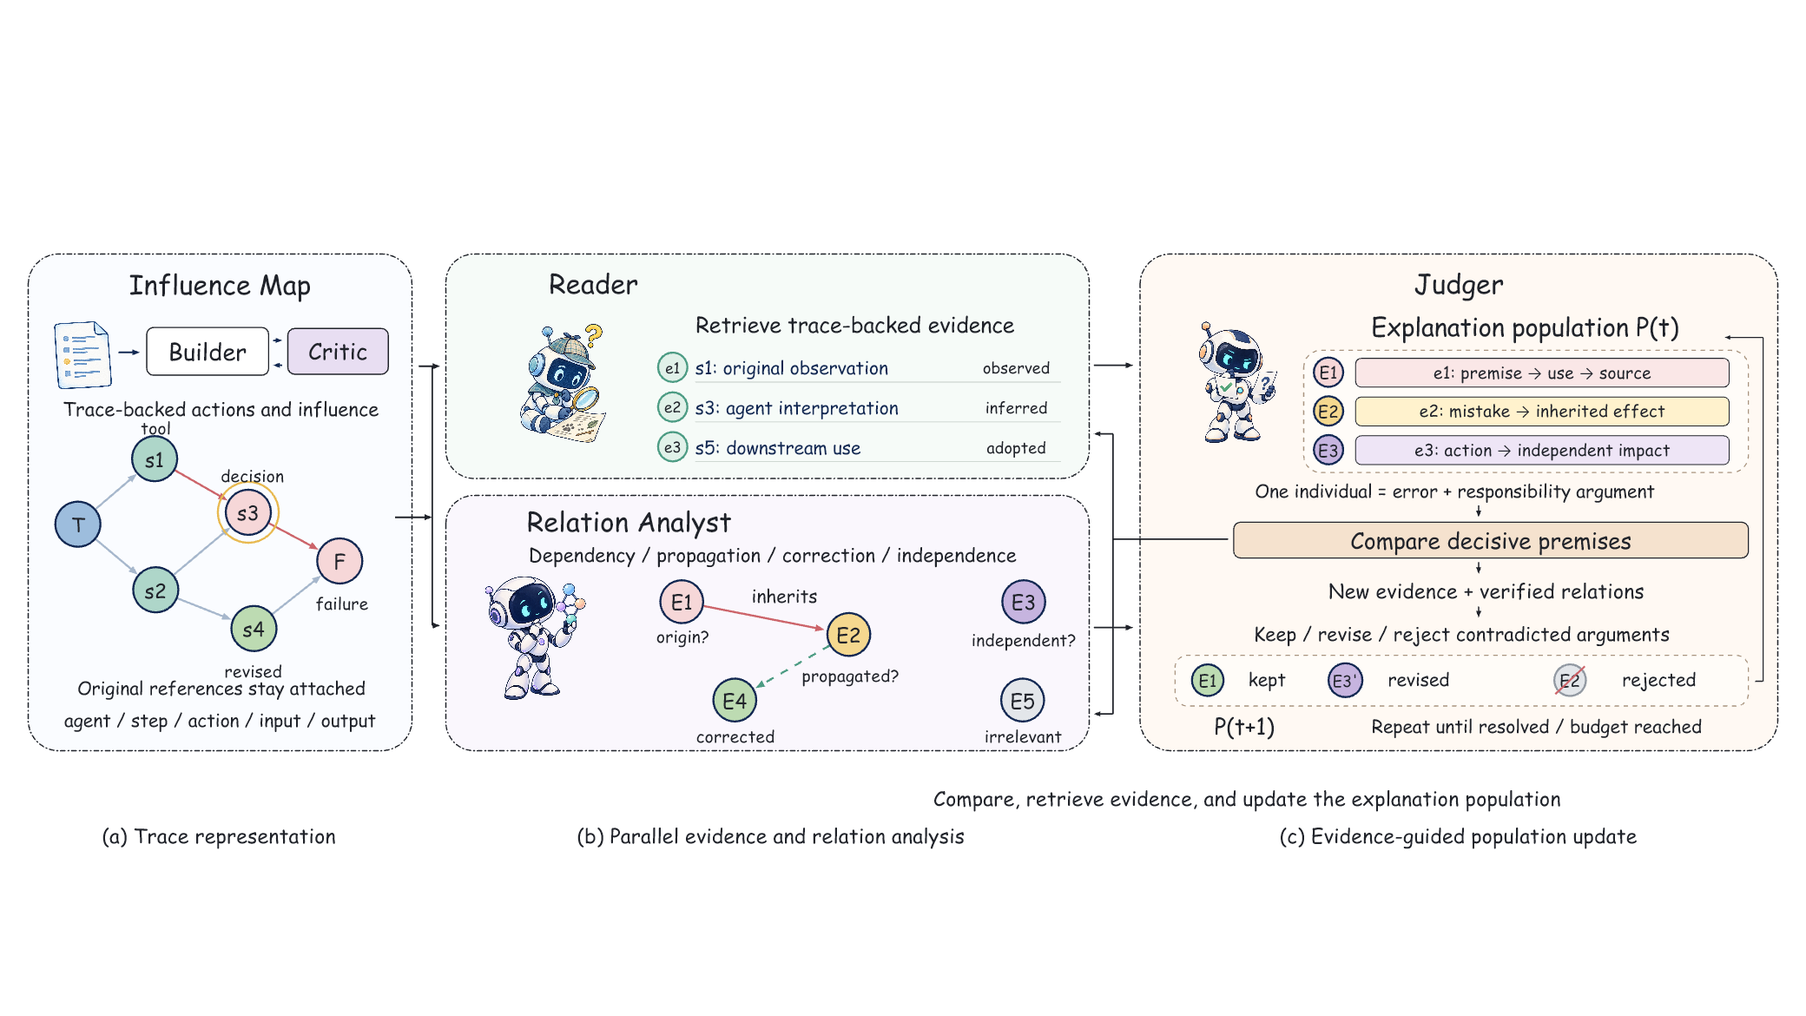
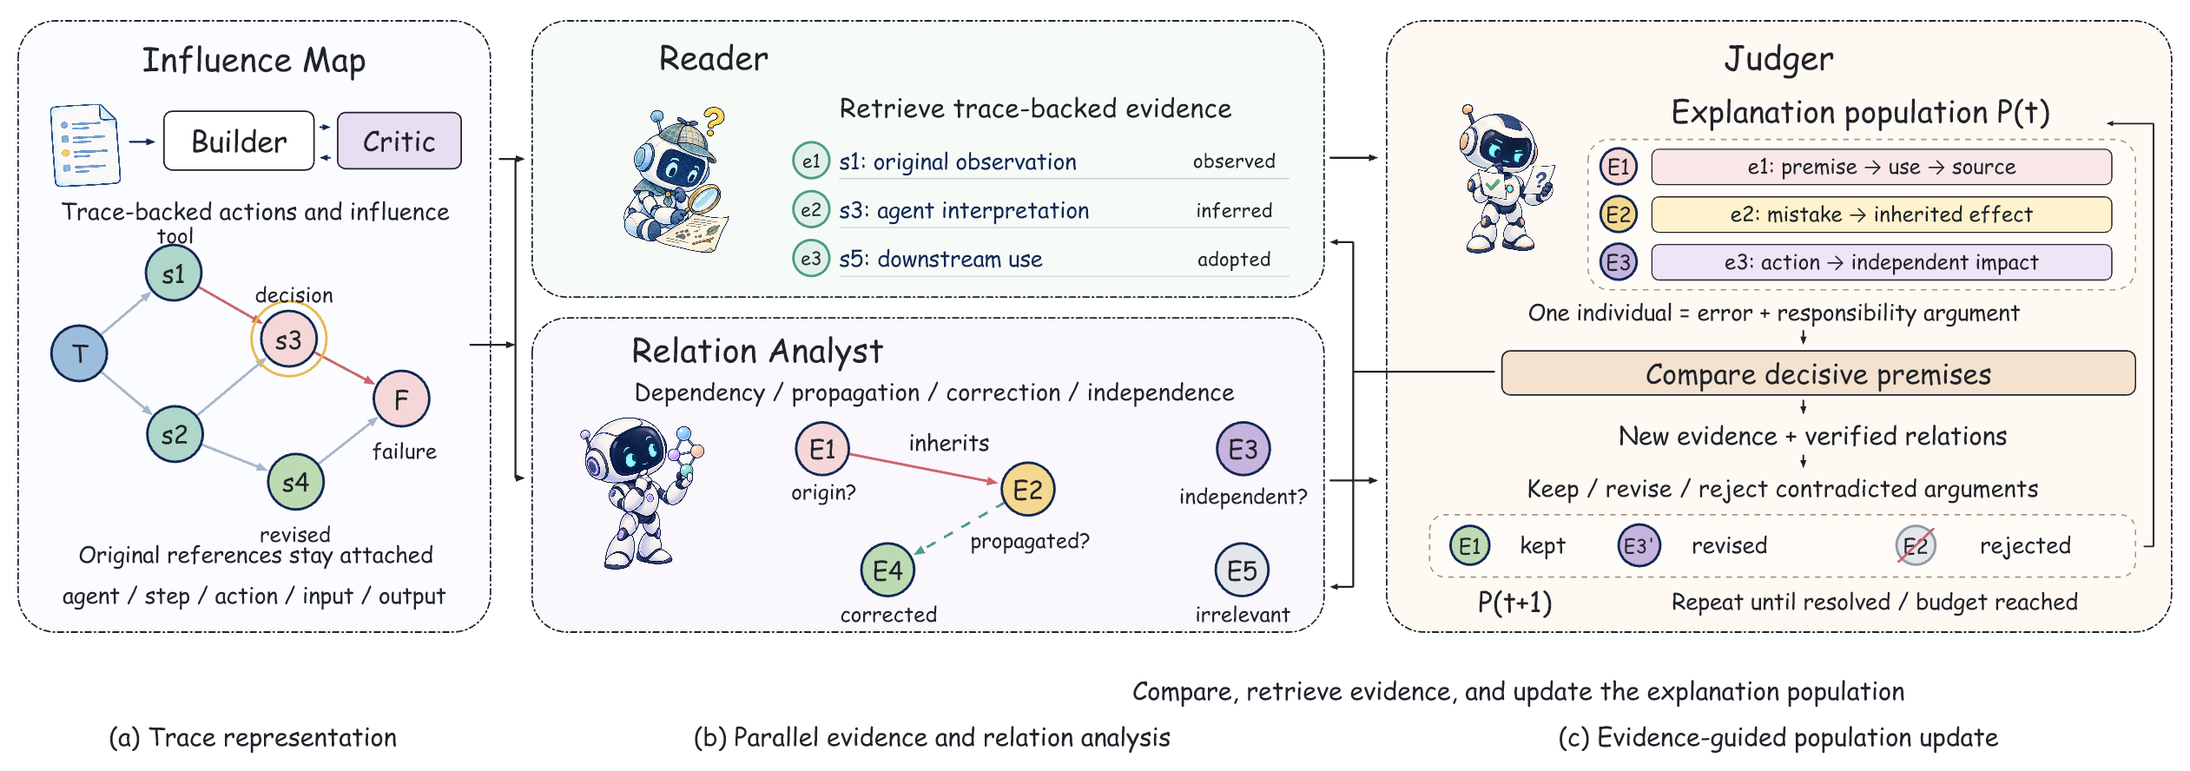
中文首页与图例说明，裁剪主图留白并展示 AI 动机图

diff --git a/README.md b/README.md
@@ -1,65 +1,50 @@
-# Neo's Autoresearch Tools
+# Neo 的自动科研工具箱
 
-Original integration tooling for Argus and AutoSOTA. Python module and command:
-`researchforge` (retained for compatibility). Release status: **experimental v0.1.1**.
+面向日常自动化科研的 Argus / AutoSOTA 接入工具。Argus 负责研究规划、实施和复核；
+AutoSOTA 作为可选的代码优化后端；本工具负责版本冻结、运行交接、评测记录、
+模型调用记账、故障停止与源码发布。
 
-中文说明见 [README.zh-CN.md](README.zh-CN.md).
+仓库也收录可复用科研技能：[论文作图 skill](skills/neo-paper-figures/SKILL.md)、
+[AI 作图展示与可编辑 PPT](docs/gallery.md)、[提示词与迭代经验](skills/neo-paper-figures/references/prompts.md)。
 
-This repository also keeps reusable research skills. See the
-[paper-figure gallery](docs/gallery.md) and [Neo's paper-figure skill](skills/neo-paper-figures/SKILL.md).
+## AI 辅助论文作图
 
-![AI-assisted method figure example](docs/assets/method-population.png)
+下面两张图由 AI 根据我的手绘草图、提示词和多轮审美反馈制作。
+图示用于展示方法构思与作图能力，不代表算法效果已经得到验证。
+图内保留论文使用的英文标注；网页预览裁掉多余留白，可编辑 PPT 保留完整页面。
 
-Reusable experiment operations connecting **native Argus research** with
-**actual AutoSOTA code optimization**. Keep one research direction and one
-experimental source of truth, while delegating bounded optimization batches.
+**论文主图：并行取证、关系分析与候选解释种群。**
 
-This is an integration project, not a fork or reimplementation of either system.
-It is currently **v0.1, local integration and offline acceptance**. The tests do
-not establish unattended paid-research readiness or improved research scores.
-An actual complete Argus → AutoSOTA → fixed evaluator → Argus paid cycle remains
-an explicit acceptance gate. Do not advertise that gate as passed until its
-receipts exist.
+![AI 辅助绘制的论文主图](docs/assets/method-population.png)
 
-```mermaid
-flowchart LR
-  Human[Researcher: direction and authority] --> Argus[Argus native continuous research]
-  Argus --> Task[Frozen bounded optimization task]
-  Task --> Auto[Actual AutoSOTA CLI]
-  Auto --> Eval[Fixed evaluator and experiment receipts]
-  Eval --> Auto
-  Auto --> Result[Patch, all scores, failures and costs]
-  Result --> Argus
-  Gate[Shared budget and protocol guard] --- Task
-  Gate --- Eval
-```
+**动机图：区分错误与责任，比较不同候选解释。**
 
-## What is implemented
+<p align="center"><img src="docs/assets/motivation-portrait.png" width="440" alt="AI 辅助绘制的论文动机图"></p>
 
-- Versioned task contracts with protected scorer hashes, fixed protocol,
-  explicit metric, baseline, data split, required artifacts and finite budgets.
-- Actual Argus and AutoSOTA CLI adapters using explicit argv, without shell
-  interpolation. No additional LLM research planner.
-- Transactional SQLite jobs, idempotent submission, a single workspace writer,
-  process receipts, hard wall time, and stopping the backend when a window pauses.
-- Crash recovery that **does not automatically replay paid work**. Lost workers
-  and ambiguous provider calls require reconciliation with saved receipts.
-- Shared API accounting with per-category allocations for planning, optimization,
-  review and evaluation. Exhausting a category commits a persistent pause.
-- Loopback OpenAI/Anthropic text-and-tool protocol bridge, environment-only real
-  credentials, authoritative usage accounting, and conservative unknown billing.
-  Extended thinking, images and complete Claude SDK parity are not implemented.
-- AutoSOTA score/patch/verdict import, clearly marked as backend-reported until
-  checked against the shared evaluator. No automatic score-based promotion.
-- Fixed-denominator paired comparisons and multi-metric acceptance guardrails.
-- Source-only release export with hashes and a credential/private-path check.
-- Native Argus handoff skill, portable offline tests and CI configuration.
+[下载论文主图 PPT](docs/assets/method-population.pptx) ·
+[下载动机图 PPT](docs/assets/motivation-portrait.pptx) ·
+[查看作图技能、提示词和迭代经验](docs/gallery.md)
 
-## Quick start
+## 当前版本
 
-Python 3.11+; no Python dependencies are required for the integration layer.
-Argus and AutoSOTA are external installations with their own dependencies,
-provider configuration, version requirements and terms. Their code is not bundled.
+**v0.1.1 实验性版本**，可以公开源码供开发和验证，尚不是开箱即用的无人值守科研平台。
+Python 模块和命令保留为 `researchforge`。
+
+- 已实现原版命令行工具适配、任务队列、单工作区写锁、保护评分器哈希和版本冻结。
+- 已实现本地模型网关、分类预算、真实用量记账，以及不明调用的保守记录。
+- 已实现子进程超时终止、崩溃恢复、AutoSOTA 产物导入和固定分母配对比较。
+- 已配置离线测试、Windows / Linux 自动测试流程 和仅源码导出。
+- 原版 AutoSOTA 0.2.0 已在断网 Linux 容器中完成 离线演练，生成真实 主提示词，
+  该验收没有调用付费模型。此包对应运行时需要 Python 3.11；不能假设新版参数兼容。
+
+**尚未完成的验收**：通过本工具跑通真实付费的
+Argus → AutoSOTA → 固定评分器 → Argus 完整闭环；系统重启后的自动服务恢复；
+完整 Claude 客户端与扩展思考 协议兼容。已有科研工作区的 Argus 实验结果
+不能替代这个独立工具包的端到端验收。
+
+## 快速检查
+
+Python 3.11 或以上；接入层本身无必需第三方 Python 依赖。
 
 ```sh
 python -m unittest discover -s tests -v
@@ -68,91 +53,56 @@ python -m researchforge doctor examples/launchers.json
 python -m researchforge --state .runtime/window-001 status
 ```
 
-`examples/budget.json` is an example, **not authorization to spend**. Before paid
-execution, configure an approved budget, verified sandbox launchers, provider
-routes and the actual frozen evaluator. All model clients must use that gateway;
-this software cannot budget arbitrary direct calls made outside it.
+Argus、AutoSOTA、模型服务和执行隔离环境需要自行安装配置。示例中的路径和预算
+需要按自己的机器调整；示例配置不代表付费授权。不要将个人模型密钥填入源码提交。
 
-## Argus ↔ AutoSOTA workflow
+## 研究循环
 
-1. Argus reads the previous full evaluation and identifies one general mechanism
-   hypothesis. It owns research direction, not every code-edit microdecision.
-2. Make an owned method-repository copy and batch workspace. Adapt
-   `docs/task.example.json` with real paths, scorer hashes and protocol identity.
-3. Stage the contract and inspect the CLI plan:
+研究方向 → 一项可检验假设 → 冻结代码与协议 → 运行优化批次 → 完整评测 →
+比较新增正确与退步案例 → 记录机制发现、成本和负结果 → 决定下一轮。
 
-```sh
-python -m researchforge plan task.json examples/launchers.json --root project
-python -m researchforge --state .runtime/window-001 submit task.json --root project
-python -m researchforge --state .runtime/window-001 worker examples/launchers.json --root project
-```
+工具保留两类记录：实验设置与可复现证据；研究发现与待验证结论。
+不以更长解释、更规范输出或单例成功替代正式任务指标。
 
-4. AutoSOTA runs a bounded batch. The worker imports actual `scores.jsonl`,
-   patches and any final verdict into `backend_receipt.json`. Native Argus checks
-   official full results and mechanism evidence before planning another batch.
-5. Maintain separate experiment-settings and research-findings logs. Preserve
-   negative results, paired regressions, source hashes, costs and limitations.
+预算策略由使用者授权；网关外的直接调用不受本工具控制。工作目录不是安全沙箱，
+必须配置经过核验的容器或其他隔离。遇到结果不明的付费调用，不应盲目重试。
+无人值守运行仍要求机器开机、联网且不休眠。
 
-The Argus skill in `skills/researchforge-autosota/SKILL.md` describes this contract.
-Install it into the operator's chosen curated skill library; it is not globally
-installed or silently injected into an active research project.
-
-## Operate while away
-
-Native Argus is the durable research loop. Run the bounded backend in foreground
-under the worker so budget pause can terminate its exact process. If the machine
-reboots, use native persisted state and `recover` before any resume. Do not create
-a replacement window to get around exhausted budgets.
+## 发布与许可
 
 ```sh
-python -m researchforge --state .runtime/window-001 pause --reason "operator pause"
-# Stop the gateway before reconciling in-flight calls:
-python -m researchforge --state .runtime/window-001 recover --gateway-stopped
+python -m researchforge export dist/neos-autoresearch-tools-v0.1.1-source.zip
 ```
 
-This version intentionally does not guess missing billable results, automatically
-clear unknowns, renew spending, answer scope-changing questions, or claim to run
-while the host sleeps. A native Needs-you question must remain visible. Future
-service/startup integration must preserve these boundaries.
+导出仅包含允许列表内的源码、文档、合成测试、示例和技能，不包含真实 API 配置、
+数据集、实验轨迹、上游二进制或私人运行目录。MIT 许可仅覆盖本项目原创代码；
+上游项目和服务各自遵守其许可与使用条款。更多接入配置见 [任务示例](docs/task.example.json) 和 [启动器示例](examples/launchers.json)。
 
-## Models and security
 
-Configure upstream base URL and **environment variable names** using
-`examples/gateway.json`. The real provider key belongs only to the gateway
-process; backend credentials should be local capability tokens. The gateway
-binds only to loopback. Never expose it to an untrusted network.
+## 两个项目如何分工
 
-```sh
-# Set the named variables securely in your own environment first.
-python -m researchforge --state .runtime/window-001 gateway examples/gateway.json
-```
+- **Argus**：维持研究方向，提出假设，安排实验，审查结果并决定下一轮。
+- **AutoSOTA**：作为代码优化后端，在冻结的任务、预算和评测规则下尝试修改。
+- **本工具箱**：负责交接、运行记录、预算记账、故障停止和结果整理。
 
-The worker and working directory are not an OS sandbox. Use a verified container
-or equivalent isolation in each CLI launcher. Caller-supplied objectives are not
-permissions to access secrets, publish, install software, change evaluators, or
-expand budgets. AutoSOTA's direct API calls must be routed to the shared gate.
-Use a native Anthropic endpoint when extended-thinking compatibility is needed;
-this v0.1 bridge refuses that mode rather than fabricating signature parity.
+本项目是接入层，未重新实现或打包分发两个上游项目。当前已有实际命令行适配与
+AutoSOTA 产物导入，但尚未验收通过完整付费闭环，也没有独立证明优化后的刷分收益。
 
-## Release
+## 可靠运行与结果记录
 
-```sh
-python -m researchforge export dist/researchforge-source.zip
-```
+- 冻结任务目标、代码版本、评分器哈希、数据划分和指标。
+- 每个工作区只允许一个写入者；重复提交不会重复创建付费任务。
+- 保存进程退出状态、失败原因、产物、成本和配对结果。
+- 崩溃或模型调用结果不明时，先核对已有记录，不自动重跑付费工作。
+- 新增正确与原正确退步一起统计，不凭单例成功或更长解释宣称进步。
+- 预算暂停会停止所管理的后端；工具不能控制绕过网关的直接模型调用。
 
-Only allowlisted source/docs/tests/examples/skills enter the archive. Runtime,
-credentials, experiments and upstream distributions are excluded. Review the
-archive and licenses before creating a new GitHub repository. No automatic Git
-push or publication is performed.
+本机验证：**38 项离线及本地 HTTP 测试通过**。仓库配置了自动测试流程；
+具体平台是否通过，以 GitHub 实际运行结果为准。
 
-## Upstream and scope
+## 上游项目
 
-- [AutoSOTA](https://github.com/tsinghua-fib-lab/AutoSOTA): actual optimization CLI.
-  The locally available package is 0.2.0; some 0.3 guide options are unsupported
-  there. We do not guess `--workspace`, `--resume` or final-review support.
-- Argus: externally installed native research/planning/review runtime. Configure
-  its executable and curated skill path for each machine.
-- MIT applies to this project's original integration source only. Upstream
-  binaries, model services, datasets and their conditions remain separate.
+- ArgusAgent：研究循环后端，安装来源和版本需与自己的实际环境一致。
+- [AutoSOTA](https://github.com/tsinghua-fib-lab/AutoSOTA)：代码优化后端。
 
-See `docs/acceptance.md` for evidence required before unattended rollout.
+未来会继续收录经过实际使用验证的自动科研工具和技能，并保留各项能力的验证边界。

diff --git a/README.zh-CN.md b/README.zh-CN.md
@@ -1,29 +1,45 @@
-# Neo's Autoresearch Tools
+# Neo 的自动科研工具箱
 
 面向日常自动化科研的 Argus / AutoSOTA 接入工具。Argus 负责研究规划、实施和复核；
 AutoSOTA 作为可选的代码优化后端；本工具负责版本冻结、运行交接、评测记录、
 模型调用记账、故障停止与源码发布。
 
 仓库也收录可复用科研技能：[论文作图 skill](skills/neo-paper-figures/SKILL.md)、
-[实际图例与可编辑 PPT](docs/gallery.md)、[提示词与迭代经验](skills/neo-paper-figures/references/prompts.md)。
+[AI 作图展示与可编辑 PPT](docs/gallery.md)、[提示词与迭代经验](skills/neo-paper-figures/references/prompts.md)。
 
-![AI辅助绘制的论文方法图](docs/assets/method-population.png)
+## AI 辅助论文作图
+
+下面两张图由 AI 根据我的手绘草图、提示词和多轮审美反馈制作。
+图示用于展示方法构思与作图能力，不代表算法效果已经得到验证。
+图内保留论文使用的英文标注；网页预览裁掉多余留白，可编辑 PPT 保留完整页面。
+
+**论文主图：并行取证、关系分析与候选解释种群。**
+
+![AI 辅助绘制的论文主图](docs/assets/method-population.png)
+
+**动机图：区分错误与责任，比较不同候选解释。**
+
+<p align="center"><img src="docs/assets/motivation-portrait.png" width="440" alt="AI 辅助绘制的论文动机图"></p>
+
+[下载论文主图 PPT](docs/assets/method-population.pptx) ·
+[下载动机图 PPT](docs/assets/motivation-portrait.pptx) ·
+[查看作图技能、提示词和迭代经验](docs/gallery.md)
 
 ## 当前版本
 
 **v0.1.1 实验性版本**，可以公开源码供开发和验证，尚不是开箱即用的无人值守科研平台。
 Python 模块和命令保留为 `researchforge`。
 
-- 已实现实际 CLI 适配、任务队列、单工作区写锁、保护评分器哈希和版本冻结。
+- 已实现原版命令行工具适配、任务队列、单工作区写锁、保护评分器哈希和版本冻结。
 - 已实现本地模型网关、分类预算、真实用量记账，以及不明调用的保守记录。
 - 已实现子进程超时终止、崩溃恢复、AutoSOTA 产物导入和固定分母配对比较。
-- 已配置离线测试、Windows / Linux CI 和仅源码导出。
-- 原版 AutoSOTA 0.2.0 已在断网 Linux 容器中完成 dry-run，生成真实 master prompt，
+- 已配置离线测试、Windows / Linux 自动测试流程 和仅源码导出。
+- 原版 AutoSOTA 0.2.0 已在断网 Linux 容器中完成 离线演练，生成真实 主提示词，
   该验收没有调用付费模型。此包对应运行时需要 Python 3.11；不能假设新版参数兼容。
 
 **尚未完成的验收**：通过本工具跑通真实付费的
 Argus → AutoSOTA → 固定评分器 → Argus 完整闭环；系统重启后的自动服务恢复；
-完整 Claude SDK 与 extended-thinking 协议兼容。已有科研工作区的 Argus 实验结果
+完整 Claude 客户端与扩展思考 协议兼容。已有科研工作区的 Argus 实验结果
 不能替代这个独立工具包的端到端验收。
 
 ## 快速检查
@@ -38,7 +54,7 @@ python -m researchforge --state .runtime/window-001 status
 ```
 
 Argus、AutoSOTA、模型服务和执行隔离环境需要自行安装配置。示例中的路径和预算
-需要按自己的机器调整；示例配置不代表付费授权。不要将本机密钥填入源码提交。
+需要按自己的机器调整；示例配置不代表付费授权。不要将个人模型密钥填入源码提交。
 
 ## 研究循环
 
@@ -60,4 +76,33 @@ python -m researchforge export dist/neos-autoresearch-tools-v0.1.1-source.zip
 
 导出仅包含允许列表内的源码、文档、合成测试、示例和技能，不包含真实 API 配置、
 数据集、实验轨迹、上游二进制或私人运行目录。MIT 许可仅覆盖本项目原创代码；
-上游项目和服务各自遵守其许可与使用条款。更多配置见 [英文说明](README.md)。
+上游项目和服务各自遵守其许可与使用条款。更多接入配置见 [任务示例](docs/task.example.json) 和 [启动器示例](examples/launchers.json)。
+
+
+## 两个项目如何分工
+
+- **Argus**：维持研究方向，提出假设，安排实验，审查结果并决定下一轮。
+- **AutoSOTA**：作为代码优化后端，在冻结的任务、预算和评测规则下尝试修改。
+- **本工具箱**：负责交接、运行记录、预算记账、故障停止和结果整理。
+
+本项目是接入层，未重新实现或打包分发两个上游项目。当前已有实际命令行适配与
+AutoSOTA 产物导入，但尚未验收通过完整付费闭环，也没有独立证明优化后的刷分收益。
+
+## 可靠运行与结果记录
+
+- 冻结任务目标、代码版本、评分器哈希、数据划分和指标。
+- 每个工作区只允许一个写入者；重复提交不会重复创建付费任务。
+- 保存进程退出状态、失败原因、产物、成本和配对结果。
+- 崩溃或模型调用结果不明时，先核对已有记录，不自动重跑付费工作。
+- 新增正确与原正确退步一起统计，不凭单例成功或更长解释宣称进步。
+- 预算暂停会停止所管理的后端；工具不能控制绕过网关的直接模型调用。
+
+本机验证：**38 项离线及本地 HTTP 测试通过**。仓库配置了自动测试流程；
+具体平台是否通过，以 GitHub 实际运行结果为准。
+
+## 上游项目
+
+- ArgusAgent：研究循环后端，安装来源和版本需与自己的实际环境一致。
+- [AutoSOTA](https://github.com/tsinghua-fib-lab/AutoSOTA)：代码优化后端。
+
+未来会继续收录经过实际使用验证的自动科研工具和技能，并保留各项能力的验证边界。

diff --git a/docs/gallery.md b/docs/gallery.md
@@ -1,30 +1,27 @@
-# Paper figure gallery
+# AI 辅助论文作图展示
 
-These are actual AI-assisted project figures, iteratively refined from Neo's
-sketches, prompts and feedback. They illustrate the drawing workflow, not
-validated algorithmic performance. Third-party reference-paper figures are not
-redistributed here.
+这些是实际科研项目中的图，经过手绘草图、提示词与多轮反馈迭代完成。
+它们展示作图过程和方法构思，不代表算法性能验证；不转载参考论文的第三方图片。
 
-## Method: parallel analysis and candidate explanation population
+## 论文主图：并行分析与候选解释种群
 
-![Parallel Reader and Relation Analyst with explanation population](assets/method-population.png)
+![AI 辅助绘制的论文主图](assets/method-population.png)
 
-[Editable PowerPoint](assets/method-population.pptx). The diagram uses editable
-shapes/text plus embedded raster role illustrations; it is not an all-vector file.
-The full slide is retained for copying into another presentation.
+网页图片已裁掉四周多余留白。[下载可编辑 PPT](assets/method-population.pptx)。
+PPT 保留完整页面，包含可编辑形状和文字，以及嵌入的角色插画，并非全部为矢量素材。
 
-## Compact portrait motivation
+## 竖版动机图：错误、责任与候选解释
 
-![Errors, responsibility and competing explanations](assets/motivation-portrait.png)
+<p align="center"><img src="assets/motivation-portrait.png" width="440" alt="AI 辅助绘制的竖版动机图"></p>
 
-[Editable PowerPoint](assets/motivation-portrait.pptx). This version was composed
-for a narrow paper column. Inspect readability again at your target column width.
+[下载可编辑 PPT](assets/motivation-portrait.pptx)。本图适合论文单栏展示，
+最终使用时仍需按实际栏宽检查文字可读性。两张图保留原有英文标注。
 
-## Reuse
+## 复用方法
 
-Read [the figure skill](../skills/neo-paper-figures/SKILL.md),
-[the prompt collection](../skills/neo-paper-figures/references/prompts.md) and
-[the revision lessons](../skills/neo-paper-figures/references/iteration-lessons.md).
-Comic Sans MS is a font preference; no font binaries are distributed. Installation
-and font licensing depend on your machine. Public copies have neutral document
-identity metadata; they do not include research data, scores or private logs.
+- [论文作图技能](../skills/neo-paper-figures/SKILL.md)
+- [提示词集合](../skills/neo-paper-figures/references/prompts.md)
+- [多轮迭代经验](../skills/neo-paper-figures/references/iteration-lessons.md)
+
+英文作图字体偏好为 Comic Sans MS，本仓库不分发字体文件。
+公开图例已清理文档身份元数据，不包含研究数据、完整实验轨迹或个人运行配置。
